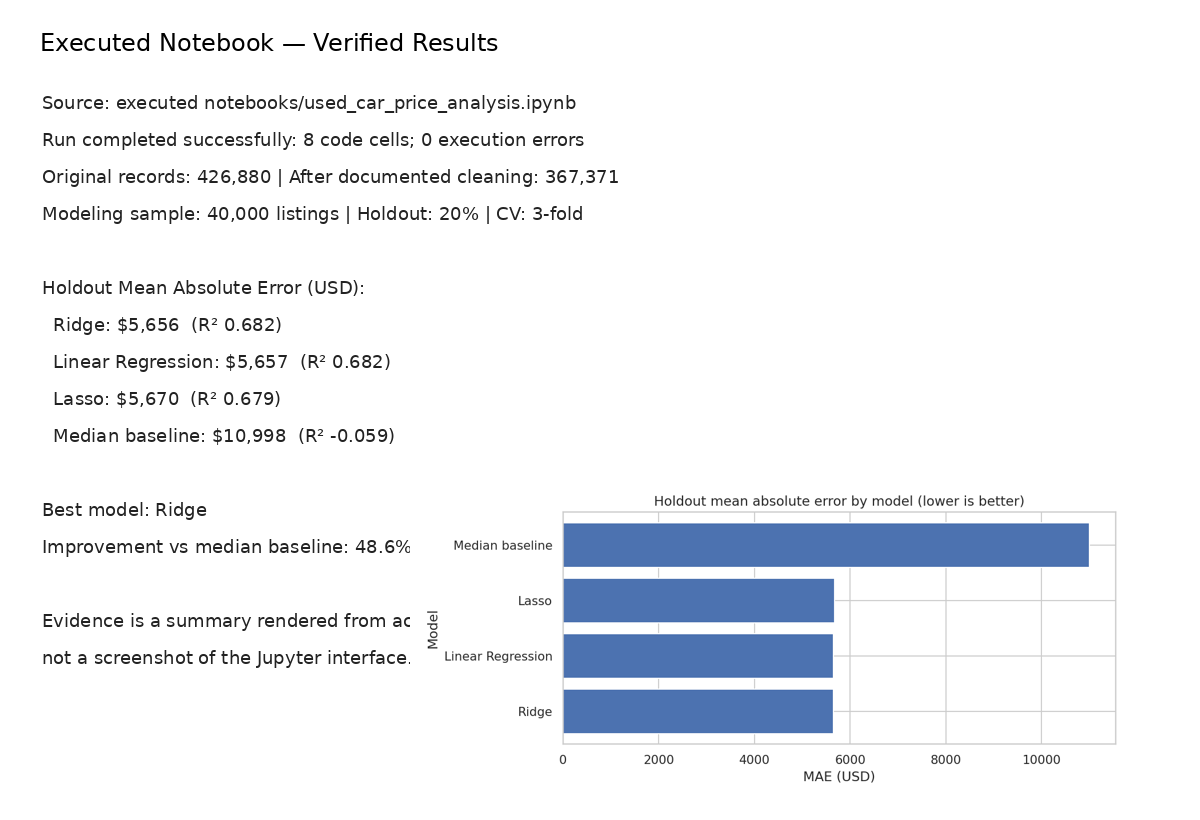
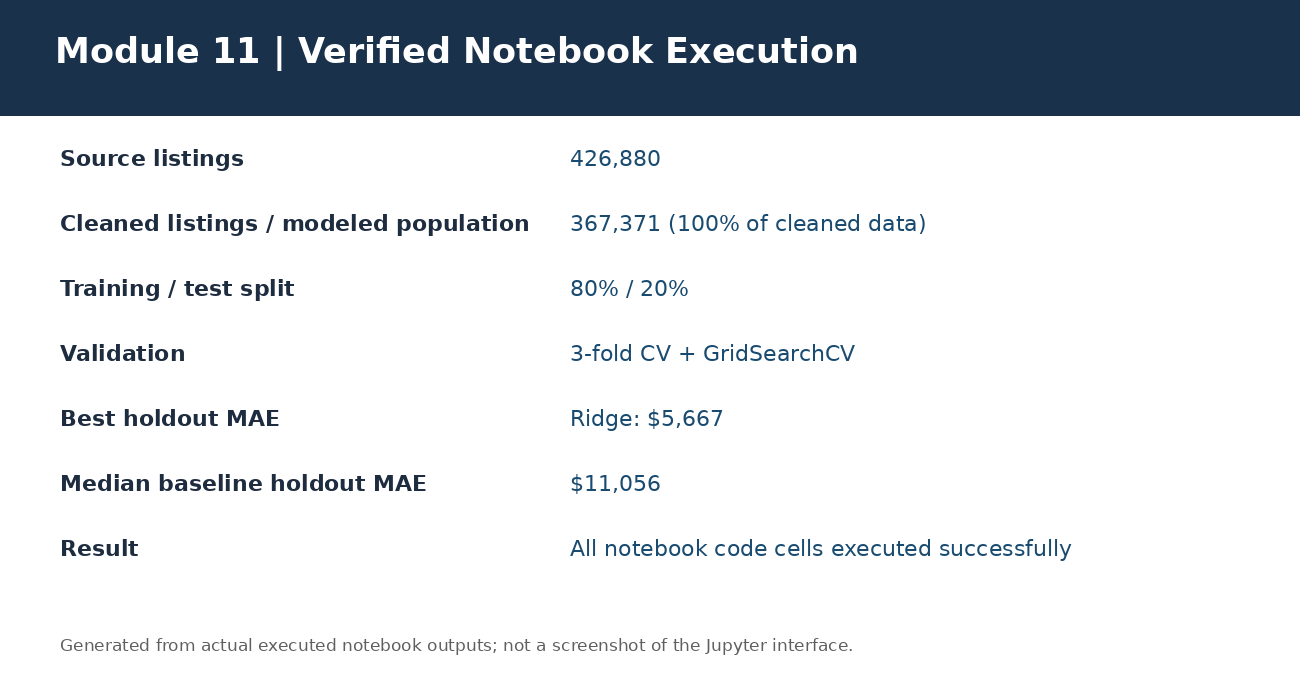
Add files via upload

diff --git a/Module_11/Assignment_11_1_Used_Car_Prices/Execution_Screenshots/README.md b/Module_11/Assignment_11_1_Used_Car_Prices/Execution_Screenshots/README.md
@@ -1,3 +1,3 @@
 # Execution evidence
 
-`notebook_execution.png` is generated from the actual executed notebook outputs (not a fabricated Jupyter screenshot). The complete executed notebook also retains the code-cell outputs and figures.
+`notebook_execution.png` is a generated summary of the **actual successful executed notebook run**, not a screenshot of the Jupyter interface. For a native screenshot, open the notebook in Jupyter, choose Restart & Run All, and capture the completed interface.
